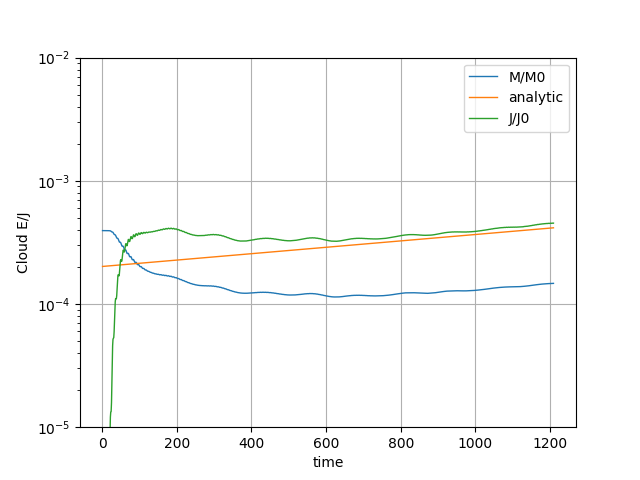
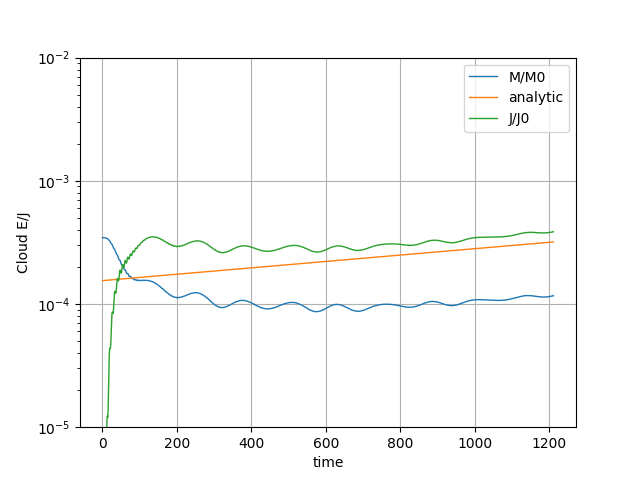
minor updates

Changed region(s): [[0.1562, 0.4375, 0.875, 0.875], [0.8125, 0.9062, 0.9062, 0.9375], [0.5938, 0.9062, 0.6562, 0.9375]]

diff --git a/FixedBGExamples/IsoKerrSIProca/plotEJ1.py b/FixedBGExamples/IsoKerrSIProca/plotEJ1.py
@@ -1,0 +1,47 @@
+# A simple python script to plot the GW
+# signals over time, for a chosen mode
+
+import numpy as np;
+import matplotlib.pyplot as plt;
+
+# output data for setup
+M = 1.0
+mu = 0.5
+r = 400
+a = 0.99
+symmetry = 2
+N = 100 # when to normalise to
+alpha = M * mu
+r_plus = M + np.sqrt(M*M - a*a)
+omega_Re = mu * (1.0 - 0.5 * alpha**2 - 0.33 * alpha **3.0)
+omega_Im = 0.99 * alpha**7.0 * (a - 2 * r_plus * omega_Re)
+
+# make the plot
+fig = plt.figure()
+
+# volume integral dataset out
+data1 = np.loadtxt("Run1/ProcaDensities.dat")
+labelstring = "M/M0"
+timedata = data1[:,0]
+dM = symmetry*data1[:,1]/symmetry*data1[N,1]
+plt.semilogy(timedata, dM, '-', lw = 1.0, label=labelstring)
+plt.semilogy(timedata, dM[N]*np.exp(2*omega_Im * timedata), '-', lw = 1.0, label="analytic")
+
+# volume integral dataset out
+data1 = np.loadtxt("Run1/ProcaDensities.dat")
+labelstring = "J/J0"
+timedata = data1[:,0]
+dJ = symmetry*data1[:,2]/symmetry*data1[N,2]
+plt.semilogy(timedata, dJ, '-', lw = 1.0, label=labelstring)
+
+# make the plot look nice
+plt.xlabel("time")
+plt.ylabel("Cloud E/J")
+#plt.xlim(0, 1000)
+plt.ylim(1e-5, 1e-2)
+plt.legend()
+plt.grid()
+
+# save as png image
+filename = "EJ1vsT" + "_mu" + str(mu) + ".png"
+plt.savefig(filename)

diff --git a/FixedBGExamples/IsoKerrSIProca/plotsource.py b/FixedBGExamples/IsoKerrSIProca/plotsource.py
@@ -14,13 +14,13 @@ fig = plt.figure()
 N = 250
 
 # volume integral dataset out
-data1 = np.loadtxt("Run0/ProcaDensities.dat")
+data1 = np.loadtxt("Run1/ProcaDensities.dat")
 timedata = data1[:,0]
 dM = symmetry*data1[:,1] - symmetry*data1[N,1]
 #print(dM)
 
 # flux dataset out
-data1 = np.loadtxt("Run0/Flux_integrals.dat")
+data1 = np.loadtxt("Run1/Flux_integrals.dat")
 labelstring = "integral(Flux * dt)"
 timedata = data1[:,0]
 dt = timedata[1] - timedata[0]
